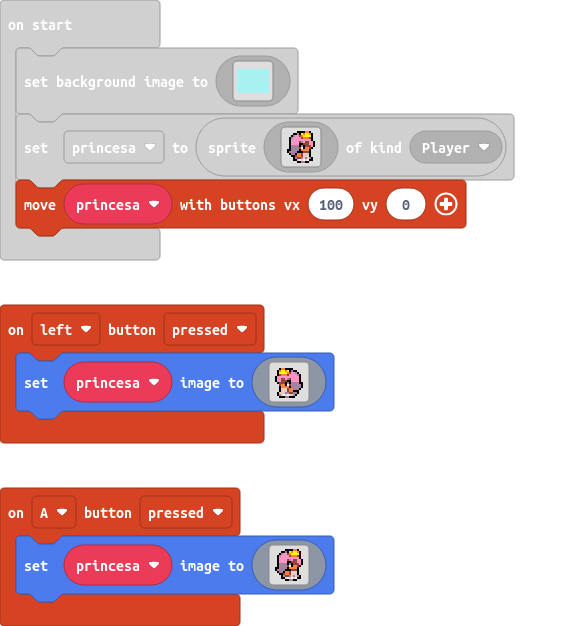
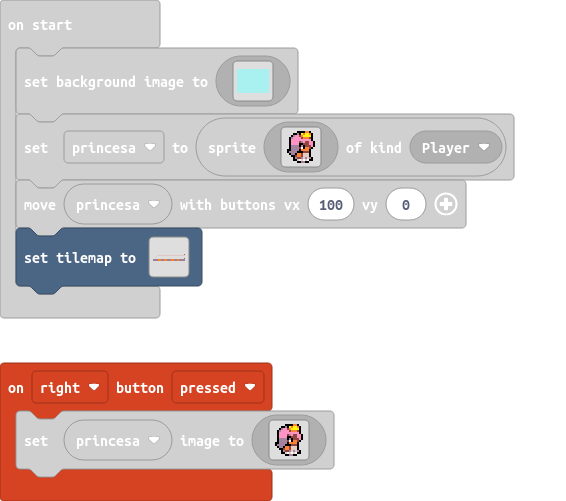
le puse el primer nivel de mi juego

diff --git a/tilemap.g.ts b/tilemap.g.ts
@@ -2,10 +2,39 @@
 namespace myTiles {
     //% fixedInstance jres blockIdentity=images._tile
     export const transparency16 = image.ofBuffer(hex``);
+    //% fixedInstance jres blockIdentity=images._tile
+    export const tile1 = image.ofBuffer(hex``);
+    //% fixedInstance jres blockIdentity=images._tile
+    export const tile2 = image.ofBuffer(hex``);
+    //% fixedInstance jres blockIdentity=images._tile
+    export const tile3 = image.ofBuffer(hex``);
+
+    helpers._registerFactory("tilemap", function(name: string) {
+        switch(helpers.stringTrim(name)) {
+            case "level1":
+            case "level1":return tiles.createTilemap(hex`2000080000000000000000000000000000000000000000000000000000000000000000000000000000000000000000000000000000000000000000000000000000000004000000000202020202020202020202020202020202020202020202020202020200000002000000000000000000000000000000000000000000000000000000000000020000000000000000000000000000000000000000000000000000000000000000000000000000000000000000000000000000000000000000000000000401010101010303030101010303030101010103030301010103030101010101010101010101030303010101030303010101010303030101010303010101010101`, img`
+. . . . . . . . . . . . . . . . . . . . . . . . . . . . 2 . . . 
+. . . . . . . . . . . . . . . . . . . . . . . . . . . . 2 . . . 
+. . . . 2 2 2 2 2 2 2 2 2 2 2 2 2 2 2 2 2 2 2 2 2 2 2 2 2 2 2 2 
+. . . 2 . . . . . . . . . . . . . . . . . . . . . . . . 2 . . . 
+. . 2 . . . . . . . . . . . . . . . . . . . . . . . . . . . . . 
+. . . . . . . . . . . . . . . . . . . . . . . . . . . . 2 . . . 
+2 2 2 2 2 . . . 2 2 2 . . . 2 2 2 2 . . . 2 2 2 . . 2 2 2 2 2 2 
+. . . . . . . . . . . . . . . . . . . . . . . . . . . . . . . . 
+`, [myTiles.transparency16,myTiles.tile1,myTiles.tile2,myTiles.tile3,sprites.dungeon.chestClosed], TileScale.Sixteen);
+        }
+        return null;
+    })
 
     helpers._registerFactory("tile", function(name: string) {
         switch(helpers.stringTrim(name)) {
             case "transparency16":return transparency16;
+            case "myTile":
+            case "tile1":return tile1;
+            case "myTile0":
+            case "tile2":return tile2;
+            case "myTile1":
+            case "tile3":return tile3;
         }
         return null;
     })

diff --git a/main.ts b/main.ts
@@ -1,23 +1,3 @@
-controller.A.onEvent(ControllerButtonEvent.Pressed, function () {
-    princesa.setImage(img`
-        . . . . . . f f f f 4 4 f . . . 
-        . . . . f f b f 5 4 5 5 4 f . . 
-        . . . f b 3 3 e 4 5 5 5 5 f . . 
-        . . f b 3 3 3 3 e 4 4 4 e f . . 
-        . . f 3 3 3 3 3 3 3 3 3 3 f . . 
-        . . f 3 3 3 3 e b 3 e e 3 3 f . 
-        . . f 3 3 3 3 f f e e e 3 3 f . 
-        . . f b b b b f b f e e e 3 f . 
-        . . f b b b b e 1 f 4 4 e f . . 
-        . f f b b b b f 4 4 4 4 f . . . 
-        . f b b b b f f f e e e f . . . 
-        . . f b b f 4 4 e d d d f . . . 
-        . . . f f e 4 4 e d d d f . . . 
-        . . . . f b e e b d b d b f . . 
-        . . . . f f d 1 d 1 d 1 f f . . 
-        . . . . . . f f b b f f . . . . 
-        `)
-})
 controller.left.onEvent(ControllerButtonEvent.Pressed, function () {
     princesa.setImage(img`
         . . . . . . . . . . . . . . . . 
@@ -36,6 +16,26 @@ controller.left.onEvent(ControllerButtonEvent.Pressed, function () {
         . . f d d d b b e e b b f . . . 
         . . f b d 1 d 1 d d b f . . . . 
         . . . f f f b b f f f . . . . . 
+        `)
+})
+controller.right.onEvent(ControllerButtonEvent.Pressed, function () {
+    princesa.setImage(img`
+        . . . . . . f f f f 4 4 f . . . 
+        . . . . f f b f 5 4 5 5 4 f . . 
+        . . . f b 3 3 e 4 5 5 5 5 f . . 
+        . . f b 3 3 3 3 e 4 4 4 e f . . 
+        . . f 3 3 3 3 3 3 3 3 3 3 f . . 
+        . . f 3 3 3 3 e b 3 e e 3 3 f . 
+        . . f 3 3 3 3 f f e e e 3 3 f . 
+        . . f b b b b f b f e e e 3 f . 
+        . . f b b b b e 1 f 4 4 e f . . 
+        . f f b b b b f 4 4 4 4 f . . . 
+        . f b b b b f f f e e e f . . . 
+        . . f b b f 4 4 e d d d f . . . 
+        . . . f f e 4 4 e d d d f . . . 
+        . . . . f b e e b d b d b f . . 
+        . . . . f f d 1 d 1 d 1 f f . . 
+        . . . . . . f f b b f f . . . . 
         `)
 })
 let princesa: Sprite = null
@@ -180,3 +180,4 @@ princesa = sprites.create(img`
     . . . . . . f f b b f f . . . . 
     `, SpriteKind.Player)
 controller.moveSprite(princesa, 100, 0)
+tiles.setTilemap(tilemap`level1`)
